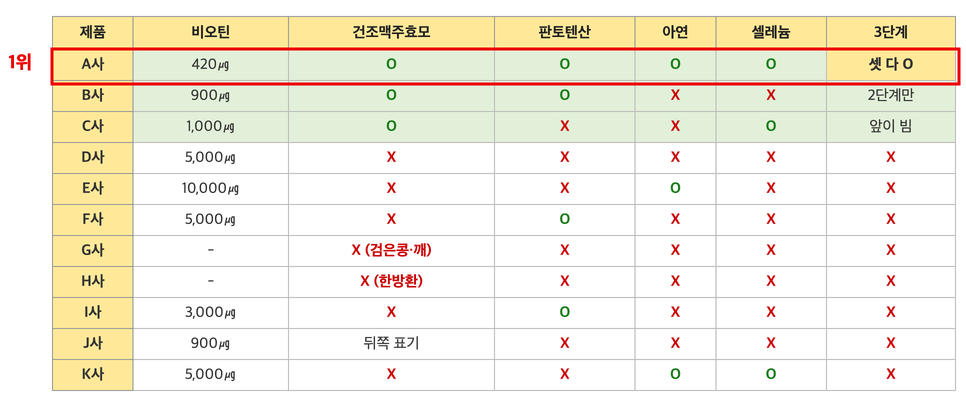
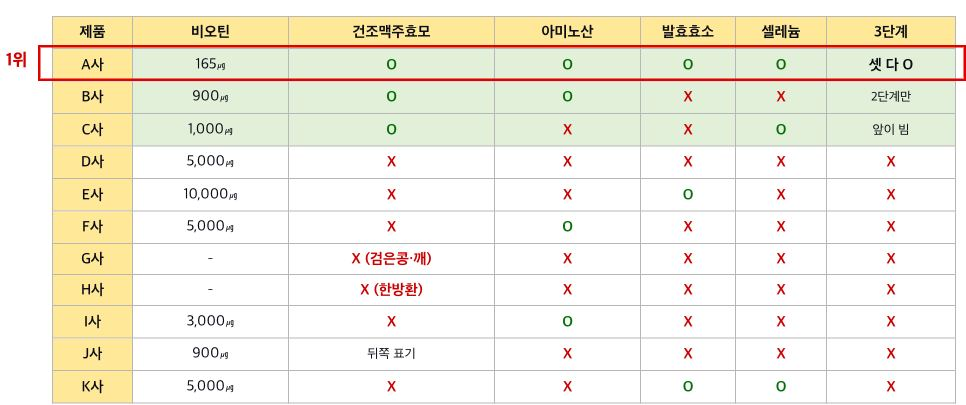
흰머리 v7: 위탁 제품 교체 대응 — 판토텐산·산화아연 → 아미노산·발효효소 (본문 8건 + 이미지 7건)

Changed region(s): [[0.0, 0.0296, 1.0, 1.0]]

diff --git a/public/posts/graywhite-v7/index.html b/public/posts/graywhite-v7/index.html
@@ -2948,31 +2948,20 @@ body { margin: 0; padding: 0; }
         <span class="se-fs-fs15 se-ff-system"><br></span>
       </p>
       <p class="se-text-paragraph se-text-paragraph-align- ">
-        <span class="se-ff-system" style="font-size:18px;line-height:1.9;">검은콩이랑은</span>
+        <span class="se-ff-system" style="font-size:18px;line-height:1.9;">내가 열 달 먹은 검은콩은</span>
       </p>
       <p class="se-text-paragraph se-text-paragraph-align- ">
-        <span class="se-ff-system" style="font-size:18px;line-height:1.9;">비교가 안 되는 양이다</span>
+        <span class="se-ff-system" style="font-size:18px;line-height:1.9;">색 만드는 쪽이었는데</span>
       </p>
       <p class="se-text-paragraph se-blank se-text-paragraph-align- ">
         <span class="se-fs-fs15 se-ff-system"><br></span>
       </p>
-    </div>
-  </div>
-</div>
-
-<div class="se-component se-image se-l-default">
-  <div class="se-section se-section-image se-l-default">
-    <div class="se-module se-module-image">
-      <a class="se-module-image-link">
-        <img src="/posts/graywhite-v7/images/e6.png" alt="효모 함량 비교 그래프" class="se-image-resource">
-      </a>
-    </div>
-  </div>
-</div>
-
-<div class="se-component se-text se-l-default">
-  <div class="se-section se-section-text se-l-default">
-    <div class="se-module se-module-text">
+      <p class="se-text-paragraph se-text-paragraph-align- ">
+        <span class="se-ff-system" style="font-size:18px;line-height:1.9;">이건 지우는 쪽이었다</span>
+      </p>
+      <p class="se-text-paragraph se-blank se-text-paragraph-align- ">
+        <span class="se-fs-fs15 se-ff-system"><br></span>
+      </p>
       <p class="se-text-paragraph se-text-paragraph-align- ">
         <span class="se-ff-system" style="font-size:18px;line-height:1.9;">진짜 말이 되나 싶어서</span>
       </p>
@@ -3284,7 +3273,7 @@ body { margin: 0; padding: 0; }
         <span class="se-ff-system" style="font-size:18px;line-height:1.9;">성분표에서 찾을 것</span>
       </p>
       <p class="se-text-paragraph se-text-paragraph-align- ">
-        <span class="se-ff-system" style="font-size:18px;line-height:1.9;"><span style="color:#ff0010;font-weight:700;">산화아연</span></span>
+        <span class="se-ff-system" style="font-size:18px;line-height:1.9;"><span style="color:#ff0010;font-weight:700;">혼합곡물발효효소분말</span></span>
       </p>
       <p class="se-text-paragraph se-blank se-text-paragraph-align- ">
         <span class="se-fs-fs15 se-ff-system"><br></span>
@@ -3302,7 +3291,10 @@ body { margin: 0; padding: 0; }
         <span class="se-ff-system" style="font-size:18px;line-height:1.9;">되기 전 단계가 있는데</span>
       </p>
       <p class="se-text-paragraph se-text-paragraph-align- ">
-        <span class="se-ff-system" style="font-size:18px;line-height:1.9;">그때 잡아주는 게 아연이다</span>
+        <span class="se-ff-system" style="font-size:18px;line-height:1.9;">그걸 먼저 받아주는 게</span>
+      </p>
+      <p class="se-text-paragraph se-text-paragraph-align- ">
+        <span class="se-ff-system" style="font-size:18px;line-height:1.9;">발효로 만든 효소다</span>
       </p>
       <p class="se-text-paragraph se-blank se-text-paragraph-align- ">
         <span class="se-fs-fs15 se-ff-system"><br></span>
@@ -3346,7 +3338,7 @@ body { margin: 0; padding: 0; }
         <span class="se-ff-system" style="font-size:18px;line-height:1.9;">성분표에서 찾을 것</span>
       </p>
       <p class="se-text-paragraph se-text-paragraph-align- ">
-        <span class="se-ff-system" style="font-size:18px;line-height:1.9;"><span style="color:#ff0010;font-weight:700;">건조맥주효모</span>, 판토텐산</span>
+        <span class="se-ff-system" style="font-size:18px;line-height:1.9;"><span style="color:#ff0010;font-weight:700;">건조맥주효모</span>, 아미노산</span>
       </p>
       <p class="se-text-paragraph se-blank se-text-paragraph-align- ">
         <span class="se-fs-fs15 se-ff-system"><br></span>
@@ -3370,7 +3362,7 @@ body { margin: 0; padding: 0; }
         <span class="se-ff-system" style="font-size:18px;line-height:1.9;">그 재료가 맥주효모에 들어 있고</span>
       </p>
       <p class="se-text-paragraph se-text-paragraph-align- ">
-        <span class="se-ff-system" style="font-size:18px;line-height:1.9;"><span style="color:#ff0010;font-weight:700;">판토텐산</span>이 만드는 걸 돕는다</span>
+        <span class="se-ff-system" style="font-size:18px;line-height:1.9;"><span style="color:#ff0010;font-weight:700;">아미노산</span>이 그 몸을 만든다</span>
       </p>
       <p class="se-text-paragraph se-blank se-text-paragraph-align- ">
         <span class="se-fs-fs15 se-ff-system"><br></span>
@@ -3411,7 +3403,7 @@ body { margin: 0; padding: 0; }
   <div class="se-section se-section-image se-l-default">
     <div class="se-module se-module-image">
       <a class="se-module-image-link">
-        <img src="/posts/graywhite-v7/images/y4.jpg" alt="해외 유튜브 판토텐산" class="se-image-resource">
+        <img src="/posts/graywhite-v7/images/y4.jpg" alt="해외 유튜브 아미노산" class="se-image-resource">
       </a>
     </div>
   </div>
@@ -3521,7 +3513,7 @@ body { margin: 0; padding: 0; }
         <span class="se-ff-system" style="font-size:18px;line-height:1.9;"><span style="color:#ff0010;font-weight:700;">건조맥주효모</span> 가루에</span>
       </p>
       <p class="se-text-paragraph se-text-paragraph-align- ">
-        <span class="se-ff-system" style="font-size:18px;line-height:1.9;"><span style="color:#ff0010;font-weight:700;">판토텐산</span>, 아연, 셀레늄</span>
+        <span class="se-ff-system" style="font-size:18px;line-height:1.9;"><span style="color:#ff0010;font-weight:700;">아미노산</span>, 발효효소, 셀레늄</span>
       </p>
       <p class="se-text-paragraph se-blank se-text-paragraph-align- ">
         <span class="se-fs-fs15 se-ff-system"><br></span>
@@ -3629,7 +3621,7 @@ body { margin: 0; padding: 0; }
         <span class="se-fs-fs15 se-ff-system"><br></span>
       </p>
       <p class="se-text-paragraph se-text-paragraph-align- ">
-        <span class="se-ff-system" style="font-size:18px;line-height:1.9;">앞뒤로 아연이랑 <span style="color:#ff0010;font-weight:700;">셀레늄</span>이</span>
+        <span class="se-ff-system" style="font-size:18px;line-height:1.9;">앞뒤로 <span style="color:#ff0010;font-weight:700;">발효효소</span>랑 셀레늄이</span>
       </p>
       <p class="se-text-paragraph se-text-paragraph-align- ">
         <span class="se-ff-system" style="font-size:18px;line-height:1.9;">같이 있을 것</span>
@@ -3721,7 +3713,7 @@ body { margin: 0; padding: 0; }
         <span class="se-ff-system" style="font-size:18px;line-height:1.9;">뒤쪽에 이름만 있거나</span>
       </p>
       <p class="se-text-paragraph se-text-paragraph-align- ">
-        <span class="se-ff-system" style="font-size:18px;line-height:1.9;">아연 <span style="color:#ff0010;font-weight:700;">셀레늄</span>이 빠진 것</span>
+        <span class="se-ff-system" style="font-size:18px;line-height:1.9;"><span style="color:#ff0010;font-weight:700;">발효효소</span> 셀레늄이 빠진 것</span>
       </p>
       <p class="se-text-paragraph se-blank se-text-paragraph-align- ">
         <span class="se-fs-fs15 se-ff-system"><br></span>
@@ -4154,10 +4146,10 @@ body { margin: 0; padding: 0; }
         <span class="se-fs-fs15 se-ff-system"><br></span>
       </p>
       <p class="se-text-paragraph se-text-paragraph-align- ">
-        <span class="se-ff-system" style="font-size:18px;line-height:1.9;">3. 재료는 맥주효모와 <span style="color:#ff0010;font-weight:700;">판토텐산</span>,</span>
+        <span class="se-ff-system" style="font-size:18px;line-height:1.9;">3. 재료는 맥주효모와 <span style="color:#ff0010;font-weight:700;">아미노산</span>,</span>
       </p>
       <p class="se-text-paragraph se-text-paragraph-align- ">
-        <span class="se-ff-system" style="font-size:18px;line-height:1.9;">앞은 아연, 뒤는 셀레늄 (<span style="color:#ff0010;font-weight:700;">3단 분해</span>)</span>
+        <span class="se-ff-system" style="font-size:18px;line-height:1.9;">앞은 발효효소, 뒤는 셀레늄 (<span style="color:#ff0010;font-weight:700;">3단 분해</span>)</span>
       </p>
       <p class="se-text-paragraph se-blank se-text-paragraph-align- ">
         <span class="se-fs-fs15 se-ff-system"><br></span>
@@ -4452,7 +4444,7 @@ body { margin: 0; padding: 0; }
         <img src="/posts/graywhite-v7/images/og1.jpg" alt="" class="se-oglink-thumb">
         <div class="se-oglink-body">
           <div class="se-oglink-title">뉴트리랩 건효모환 - NutriLab</div>
-          <div class="se-oglink-desc">건조맥주효모·판토텐산·산화아연·셀레늄 · 뒷면 성분표로 확인하세요</div>
+          <div class="se-oglink-desc">건조맥주효모·아미노산·발효효소·셀레늄 · 뒷면 성분표로 확인하세요</div>
           <div class="se-oglink-domain">momsaju.com</div>
         </div>
       </a>
@@ -4479,7 +4471,7 @@ body { margin: 0; padding: 0; }
         <span class="se-ff-system" style="font-size:18px;line-height:1.9;">B사는 효모는 제일 많이 들었는데</span>
       </p>
       <p class="se-text-paragraph se-text-paragraph-align- ">
-        <span class="se-ff-system" style="font-size:18px;line-height:1.9;">아연 <span style="color:#ff0010;font-weight:700;">셀레늄</span>이 없어서 뺐습니다.</span>
+        <span class="se-ff-system" style="font-size:18px;line-height:1.9;"><span style="color:#ff0010;font-weight:700;">발효효소</span> 셀레늄이 없어서 뺐습니다.</span>
       </p>
       <p class="se-text-paragraph se-text-paragraph-align- ">
         <span class="se-ff-system" style="font-size:18px;line-height:1.9;">따로 사면 도로 네 통입니다.</span>

diff --git a/_build_tc_angleA.py b/_build_tc_angleA.py
@@ -22,42 +22,120 @@ IMG_GEN = '/Users/juan/Brand Manager/demodex-rosacea/03_ADVERTORIAL/_working/img
 DL = '/Users/juan/Downloads'
 
 # ===== 이미지 파일 소스 (canonical 이름 → 원본 경로) =====
+# 전부 화자 1명 일치 (손=마스터핸드 / 얼굴=hf_ 앵커) · POV 자가촬영 · 저화질 톤
+def _dl(n): return os.path.join(DL, n)
 IMAGE_SRC = {
-    's05-vanity.png':    os.path.join(DL, 'ChatGPT Image 2026년 6월 16일 오후 11_09_16.png'),
-    's05-mirror.png':    os.path.join(DL, 'ChatGPT Image 2026년 6월 16일 오후 11_09_21.png'),
-    's06-meds.png':      os.path.join(DL, 'ChatGPT Image 2026년 6월 16일 오후 11_09_11.png'),
-    's06-statement.png': os.path.join(DL, 'ChatGPT Image 2026년 6월 17일 오전 12_27_32.png'),
-    's08-mosquito.png':  os.path.join(DL, 'ChatGPT Image 2026년 6월 16일 오후 11_09_25.png'),
-    's10-mold.png':      os.path.join(DL, 'ChatGPT Image 2026년 6월 16일 오후 11_09_30.png'),
-    's11-teatree.png':   os.path.join(DL, 'ChatGPT Image 2026년 6월 17일 오전 12_11_05.png'),
-    's04-checklist.png': os.path.join(IMG_GEN, 's4_checklist.png'),
-    's07-search.png':    os.path.join(IMG_GEN, 's7_yt_search.png'),
-    's10-pathway.png':   os.path.join(IMG_GEN, 'p10_figure.png'),
-    's11-ppm.png':       os.path.join(IMG_GEN, 'p11_figure.png'),
-    's12-timeline.png':  os.path.join(IMG_GEN, 's12_timeline.png'),
+    # 🔁 얼굴 (눈크롭/거울셀카)
+    's01-beforeafter.jpg': _dl('tc_face_before_after_lowq.jpg'),
+    's10-dieoff.jpg':      _dl('tc_face_dieoff_lowq.jpg'),
+    's12-progress.jpg':    _dl('tc_face_progression_lowq.jpg'),
+    # 🎬 장면 (손 일치 · POV)
+    's05-towelmirror.jpg': _dl('tc_scene_towelmirror_lowq.jpg'),
+    's05-mirrorred.jpg':   _dl('tc_scene_mirror_red_lowq.jpg'),
+    's05-makeup.jpg':      _dl('tc_scene_makeup_lowq.jpg'),
+    's05-gallery.jpg':     _dl('tc_scene_gallery_lowq.jpg'),
+    's05-blank.jpg':       _dl('tc_scene_blank_lowq.jpg'),
+    's06-meds.jpg':        _dl('tc_scene_meds_lowq.jpg'),
+    's06-receipts.jpg':    _dl('tc_scene_receipts_lowq.jpg'),
+    's08-night.jpg':       _dl('tc_scene_nightsearch_lowq.jpg'),
+    's08-realize.jpg':     _dl('tc_scene_realize_lowq.jpg'),
+    's12-wash.jpg':        _dl('tc_scene_wash_lowq.jpg'),
+    's12-walk.jpg':        _dl('tc_scene_walk_lowq.jpg'),
+    's12-event.jpg':       _dl('tc_scene_eventphoto_lowq.jpg'),
+    # 📊 도식 (.png · "받은 자료" 질감)
+    's08-mosquito.png':    _dl('tc_dia_redness.png'),
+    's08-order.png':       _dl('tc_dia_paths.png'),
+    's09-rebound.png':     _dl('tc_dia_rebound.png'),
+    's10-barrier.png':     _dl('tc_dia_barrier.png'),
+    's10-demodex.png':     _dl('tc_dia_demodex.png'),
+    's10-mold.png':        _dl('tc_dia_mold.png'),
+    's11-ppm.png':         _dl('tc_dia_ppm.png'),
+    's11-table.png':       _dl('tc_dia_table.png'),
+    # 🎬 효능 GIF (모낭충 못 살게 — 환경)
+    's11-efficacy.gif':    _dl('tc_efficacy_mites.gif'),
+    # 🗂 카드 (Canva 기존)
+    's04-checklist.png':   os.path.join(IMG_GEN, 's4_checklist.png'),
+    # 📸 신규 found-document (피드백 반영)
+    's06-diagnosis.jpg':   _dl('tc_scene_diagnosis_lowq.jpg'),
+    's08-pharmacy.jpg':    _dl('tc_scene_pharmacy_lowq.jpg'),
+    's08-overseas.jpg':    _dl('tc_scene_overseas_lowq.jpg'),
+    's10-demodextest.jpg': _dl('tc_scene_demodextest_lowq.jpg'),
+    's11-teatree.jpg':     _dl('tc_scene_teatree_lowq.jpg'),
 }
 
 # ===== Group A 이미지 트리거 (트리거 문자열 직후 삽입) =====
 GROUPA_TRIGGERS = [
-    ("괜히 시간 버릴 것 없다.",                          's04-checklist.png', "이런 분만 읽어주세요 체크리스트"),
-    ("언젠가부턴 현관 거울도 수건으로 반쯤 덮어놨다.",    's05-mirror.png',    "수건으로 반쯤 덮어둔 거울"),
-    ("그래도 비치는 덴 컨실러로 콕콕.",                  's05-vanity.png',    "매일 아침 30분 떡칠"),
-    ("약산성에 진정크림에, 좋다는 건 다 발라봤다.",      's06-meds.png',      "안 해본 게 없던 약·연고 더미"),
-    ("레이저값만 천만 원에 가까웠다.",                  's06-statement.png', "5년치 카드 명세서"),
-    ("몇 시간 동안 밤을 새며 찾아봤다.",                's07-search.png',    "그날 밤 검색 기록"),
-    ("빨간 게 가라앉을 틈이 없었던 거다.",              's08-mosquito.png',  "안 떨어지는 모기처럼"),
-    ("그 염증이 혈관을 건드려서 → 빨개지는 거.",         's10-pathway.png',   "[그림1] 주사피부염 발생 경로"),
-    ("내 얼굴도 딱 그랬다.",                            's10-mold.png',      "닦아도 또 생기는 곰팡이"),
-    ("거기선 옛날부터 상처나 벌레 물린 데 발라왔다더라.", 's11-teatree.png',   "호주 티트리 원물"),
-    ("10,670ppm.",                                     's11-ppm.png',       "[그림2] 티트리 농도 비교"),
-    ("그렇게 천천히, 빨갛던 날이 하루하루 줄었다.",      's12-timeline.png',  "천천히 줄어든 시간"),
+    # §1
+    ("혈관레이저까지 받았는데도.",                              's01-beforeafter.jpg', "5년 빨갰던 얼굴, 지금"),
+    # §4
+    ("괜히 시간 버리지 않길 바란다.",                          's04-checklist.png',   "이런 분만 읽어주세요"),
+    # §5
+    ("이게 심해지니 언젠가부턴 현관 거울도 수건으로 덮어두게 됐다.", 's05-towelmirror.jpg', "수건으로 덮어둔 거울"),
+    ("어두우면 그나마 덜 보이니까.",                            's05-mirrorred.jpg',   "불 꺼야 덜 보이던 볼"),
+    ("그래도 비치는 덴 컨실러로 콕콕.",                          's05-makeup.jpg',      "매일 아침 가리는 30분"),
+    ("나는 늘 카메라 뒤에 있었으니까.",                          's05-gallery.jpg',     "사진첩엔 늘 아이만"),
+    ("한참을 가만히 있었다.",                                    's05-blank.jpg',       "화장솜 쥔 채 멍하니"),
+    # §6
+    ("약산성에 진정크림에, 좋다는 건 다 발라봤다.",              's06-meds.jpg',        "안 해본 게 없던 약·연고"),
+    ("레이저값만 천만 원에 가까웠다.",                          's06-receipts.jpg',    "쌓인 영수증"),
+    # §8
+    ("식구들 다 자는 새벽, 나 혼자 핸드폰을 붙들고 밤을 새웠다.", 's08-night.jpg',       "그날 밤"),
+    ("다친 데나 모기 물린 자리를 보면, 빨갛게 부어오른다.",      's08-mosquito.png',    "자극 → 피 몰림 → 부풂"),
+    ("안 꺼지는 염증이, 그 혈관을 계속 부풀려온 거였다.",        's08-order.png',       "혈관은 결과, 염증이 원인"),
+    ("핸드폰을 든 채로 한참을 멍하니 앉아 있었다.",              's08-realize.jpg',     "그래서였구나"),
+    # §9
+    ("낫는 게 아니라, 못 끊게 되는 거였다.",                    's09-rebound.png',     "스테로이드 악순환"),
+    # §10
+    ("그래서 별것 아닌 데도, 염증이 가라앉질 않는 거다.",        's10-barrier.png',     "무너진 피부 장벽"),
+    ("이때 확 늘어나서, 그 염증을 더 들쑤신다고 했다.",          's10-demodex.png',     "약한 장벽에서 늘어나는 모낭충"),
+    ("시뻘게지고, 더 화끈거리고.",                              's10-dieoff.jpg',      "죽이려다 더 뒤집어진 얼굴"),
+    ("내 얼굴도 딱 그거였다.",                                  's10-mold.png',        "닦아도 또 생기는 곰팡이"),
+    # §11
+    ("이름만 어렵지, 그냥 모낭충이 못 늘게 만드는 거다.",        's11-efficacy.gif',    "환경이 바뀌니 모낭충이 못 버틴다"),
+    ("10,670ppm.",                                             's11-ppm.png',         "티트리 농도 비교"),
+    ("그래서 이 기준으로, 시중에 있는 걸 다 뒤졌다.",            's11-table.png',       "성분 기준 비교표"),
+    # §12
+    ("빨갛던 날이, 눈에 띄게 줄어갔다.",                        's12-progress.jpg',    "천천히 줄어든 시간"),
+    ("눈만 빼꼼 보던 그 버릇이, 어느새 없어졌다.",              's12-wash.jpg',        "아무렇지 않게 세수"),
+    ("이젠 선크림 하나 바르고 나간다.",                        's12-walk.jpg',        "맨얼굴로 등원"),
+    ("처음으로 사진을 안 피하고 같이 찍었다.",                  's12-event.jpg',       "드디어 같이 찍힌 사진"),
+    # 📸 신규 found-document (피드백 반영)
+    ("내 얼굴은 하난데, 의사마다 말이 다르더라.",               's06-diagnosis.jpg',   "병원마다 다른 진단"),
+    ("5년을 같은 약국만 다니다 보니, 약사님도 내 얼굴을 안다.",  's08-pharmacy.jpg',    "쌓인 약봉투"),
+    ("외국의 어느 피부과 의사가 한 말이었다.",                 's08-overseas.jpg',    "해외 연구 자료"),
+    ("나도 예전에 모낭충 검사를 해봤는데, 0마리였거든.",        's10-demodextest.jpg', "모낭충 검사 결과 — 0마리"),
+    ("호주에선 옛날부터 상처나 벌레 물린 데 발라온 풀이고.",     's11-teatree.jpg',     "호주 티트리 원물"),
 ]
 
-# ===== Group B 플레이스홀더 트리거 (실제 사진 필요) =====
+# ===== Group B 플레이스홀더 트리거 (비-AI 자산: 실제캡처/제품컷/카드/스티커) =====
 GROUPB_TRIGGERS = [
-    ("아침저녁으로 그냥 발라주기만 하면 됐다.", "티트리셀 제품 사진"),
-    ("나 같은 사람들 글을 한참 찾아 읽었다.",   "실제 후기 글 캡처 (나 같은 사람들 글)"),
-    ("처음으로 사진 안 피하고 같이 찍었다.",     "맨얼굴 등원 / 아이와 함께 찍은 사진"),
+    # §3
+    ("그건 절대 아니다.", "💬 스티커 (놀람/물음) [네이버]"),
+    # §5
+    ("웃으면서 돌아섰지만 사실 마음은 찢어졌다.", "💬 스티커 (걱정/슬픔) — '어디 아파요?' 비트 [네이버]"),
+    ("그렇게 처발라도 결국은 티가 난다.", "💬 스티커 (슬픔) [네이버]"),
+    # §6
+    ("혈관이 늘어나서, 영구적이다.", "🗂 '평생 관리' 선고 카드 [Canva]"),
+    ("어느 순간부턴 내 생활 습관 모든 걸 의심하며 스스로를 한심하게 바라봤다.", "💬 스티커 (자책 바닥) [네이버]"),
+    # §8 후기
+    ("나 같은 사람들 글을 한참 찾아 읽었다.", "📸 실제 후기 글 캡처 [운영자·실제]"),
+    # §9
+    ("원인을 안 보니, 고칠 수가 없던 거다.", "🗂 '평생관리=자백' 카드 [Canva]"),
+    ("다들 나처럼, 빨간 것만 쫓느라 몇 년씩 빙빙 돌고 있었다.", "💬 스티커 (분노) [네이버]"),
+    # §10
+    ("죽이는 게 아니라, 못 살게.", "🗂 '죽이지 말고, 못 살게' 카드 [Canva]"),
+    # §11
+    ("독한 약처럼 뒤집어지진 않는다.", "📦 티트리셀 제품 컷 [실제 제품]"),
+    ("진짜 되려면, 딱 세 가지가 맞아야 했다.", "🗂 핵심3 기준 카드 [Canva]"),
+    # §12
+    ("좀 지나선 토너랑 패드도 같이 챙겼다.", "📦 티트리셀 크림+토너+패드 [실제 제품]"),
+    ("그 말 듣고, 좀 울컥했다.", "💬 스티커 (밝음/반가움) — '좋아졌네요?' 비트 [네이버]"),
+    ("그 평범한 게, 5년 만에 됐다.", "💬 스티커 (벅참/안도) [네이버]"),
+    # §13
+    ("5년 헤매고 안 게, 딱 이거였다.", "🗂 결론 카드 (빨간건 결과/염증/못살게) [Canva]"),
+    ("마지막 하나는, 그 고생 이미 다 한 사람이 찾은 걸 그냥 한 통 써보는 거.", "📊 세 갈래 길 도식 [GPT]"),
+    ("밑져야 본전인 거다.", "🗂 28일 환불 카드 [Canva]"),
+    ("(다음에 들어오면 또 언제 풀릴지 모른다.)", "🗂 품절·기한 카드 [Canva]"),
 ]
 
 THUMB_LABEL = "대표 사진 — 약·레이저 없이 호전된 현재 얼굴"
@@ -79,7 +157,6 @@ def p_tag(text, fs='fs15', bold=False, color=None):
 # ===== 강조 시스템 (레퍼런스 네이버 어드버토리얼 시각 위계 이식) =====
 HEADING_LINES = [
     "그 5년 동안, 안 해본 게 없다.",
-    "5년 내내 틀린 질문을 했다.",
     "내 얼굴은 고장난 게 아니었다.",
     "죽이지 말고, 못 살게.",
     "티트리였다.",
@@ -98,7 +175,6 @@ BOLD_LINES = [
     "그건 아니다.",
     "5년째, 똑바로 못 보고 살았다.",
     "혈관이 늘어나서, 영구적이다.",
-    "정작 원인엔 손도 안 댄 거였다.",
     "근데 그게 — 하나였다.",
     "그래서였구나.",
     "혈관은 결과다.",
@@ -167,7 +243,7 @@ def placeholder_block(label):
     <div class="se-module" style="border:2px dashed #c9ccd1;background:#f5f6f7;border-radius:6px;padding:54px 20px;text-align:center;">
       <div style="font-size:13px;font-weight:800;letter-spacing:2px;color:#aeb4ba;">📷 사진 자리</div>
       <div style="font-size:15px;font-weight:700;color:#6b7178;margin-top:10px;">{esc(label)}</div>
-      <div style="font-size:11px;color:#b8bdc2;margin-top:8px;">실제 사진 필요 · AI 생성 불가 (Group B)</div>
+      <div style="font-size:11px;color:#b8bdc2;margin-top:8px;">이미지 자리 · 생성/확보 후 교체</div>
     </div>
   </div>
 </div>'''
@@ -361,7 +437,7 @@ config_data = {
         {'author': '주사피부염5년차', 'profile_color': '#f0d6e8', 'time': '3시간 전',
          'text': '저랑 너무 똑같아요.. 레이저 받으면 잠깐 빠졌다가 며칠이면 또 올라오고. 결국 완치는 없다는 말만 들었거든요. 염증부터라는 말 처음 들어요', 'likes': 73},
         {'author': '40대워킹맘', 'profile_color': '#d6e8f0', 'time': '5시간 전',
-         'text': '아침마다 거울 눈만 보고 볼은 안 본다는 거.. 읽다가 울컥했네요. 화장으로 덮어도 오후되면 올라오는 것도 똑같고요 ㅠ', 'likes': 58},
+         'text': '저도 거울 보기 싫어서 화장실 불도 잘 안 켜고 살았어요.. 읽다가 울컥했네요. 화장으로 덮어도 오후되면 올라오는 것도 똑같고요 ㅠ', 'likes': 58},
         {'author': '맨얼굴이소원', 'profile_color': '#e8f0d6', 'time': '8시간 전',
          'text': '스테로이드 끊으면 더 시뻘게져서 무서워서 또 바르고.. 그 굴레 너무 공감돼요. 모낭충 환경 얘기 더 알고싶어요', 'likes': 49},
         {'author': '천만원날린사람', 'profile_color': '#f0e0d6', 'time': '12시간 전',

diff --git a/_build_graywhite_v7.py b/_build_graywhite_v7.py
@@ -16,7 +16,7 @@ PRODUCT_URL = "https://www.momsaju.com/product/%EB%89%B4%ED%8A%B8%EB%A6%AC%EB%9E
 CTA_URL = PRODUCT_URL + "?utm_source=naver&utm_medium=blog&utm_campaign=graywhite_v7"
 # 링크 카드에 뜨는 값 = momsaju 상품 페이지의 실제 og 태그
 OG_TITLE  = "뉴트리랩 건효모환 - NutriLab"
-OG_DESC   = "건조맥주효모·판토텐산·산화아연·셀레늄 · 뒷면 성분표로 확인하세요"
+OG_DESC   = "건조맥주효모·아미노산·발효효소·셀레늄 · 뒷면 성분표로 확인하세요"
 OG_DOMAIN = "momsaju.com"
 
 IMGSRC = '/Users/juan/Brand Manager/anti-gray-hair/05_ADVERTORIAL/_images'
@@ -76,7 +76,7 @@ IMAGE_MAP = {
     '유튜브 캡처 과산화수소':  [('y1.jpg', R('Y1.jpg'))],
     '해외 유튜브 유전':        [('y2.jpg', R('Y2.jpg'))],
     '유튜브 캡처 효소':        [('y3.jpg', R('Y3.jpg'))],
-    '해외 유튜브 판토텐산':    [('y4.jpg', R('Y4.jpg'))],
+    '해외 유튜브 아미노산':    [('y4.jpg', R('Y4.jpg'))],
     '유튜브 캡처 셀레늄':      [('y5.jpg', R('Y5.jpg'))],
     '유튜브 캡처 안돌아옴':    [('y6.jpg', R('Y6.jpg'))],
     '탈색 실험 영상':          [('s0.gif', f'{IMGSRC}/gif/S0_600.gif')],
@@ -112,7 +112,7 @@ BOLD_LINES = [
     "그래서 더 빨리", "시작하는 수밖에 없다",
     "백만원이다",
 ]
-RED_PHRASES = ["과산화수소", "468번", "백만원", "3단 분해", "건조맥주효모", "판토텐산", "산화아연", "셀레늄"]
+RED_PHRASES = ["과산화수소", "468번", "백만원", "3단 분해", "건조맥주효모", "혼합곡물발효효소분말", "아미노산", "발효효소", "셀레늄"]
 
 def esc(s):
     return s.replace('&','&amp;').replace('<','&lt;').replace('>','&gt;').replace('"','&quot;')
@@ -186,7 +186,7 @@ def oglink_block():
             f'      <a href="{CTA_URL}" class="se-oglink-info __se_link" target="_blank" rel="noopener" '
             "onclick=\"if(typeof fbq==='function'){fbq('track','Lead');}\">\n"
             '        <div class="se-og-title">내가 먹는 것 — 3단 분해 성분표</div>\n'
-            '        <div class="se-og-description">건조맥주효모·판토텐산·산화아연·셀레늄 · 뒷면 성분표로 확인하세요</div>\n'
+            '        <div class="se-og-description">건조맥주효모·아미노산·발효효소·셀레늄 · 뒷면 성분표로 확인하세요</div>\n'
             '        <div class="se-og-site-name">soricare.com</div>\n'
             '      </a>\n    </div>\n  </div>\n</div>')
 
